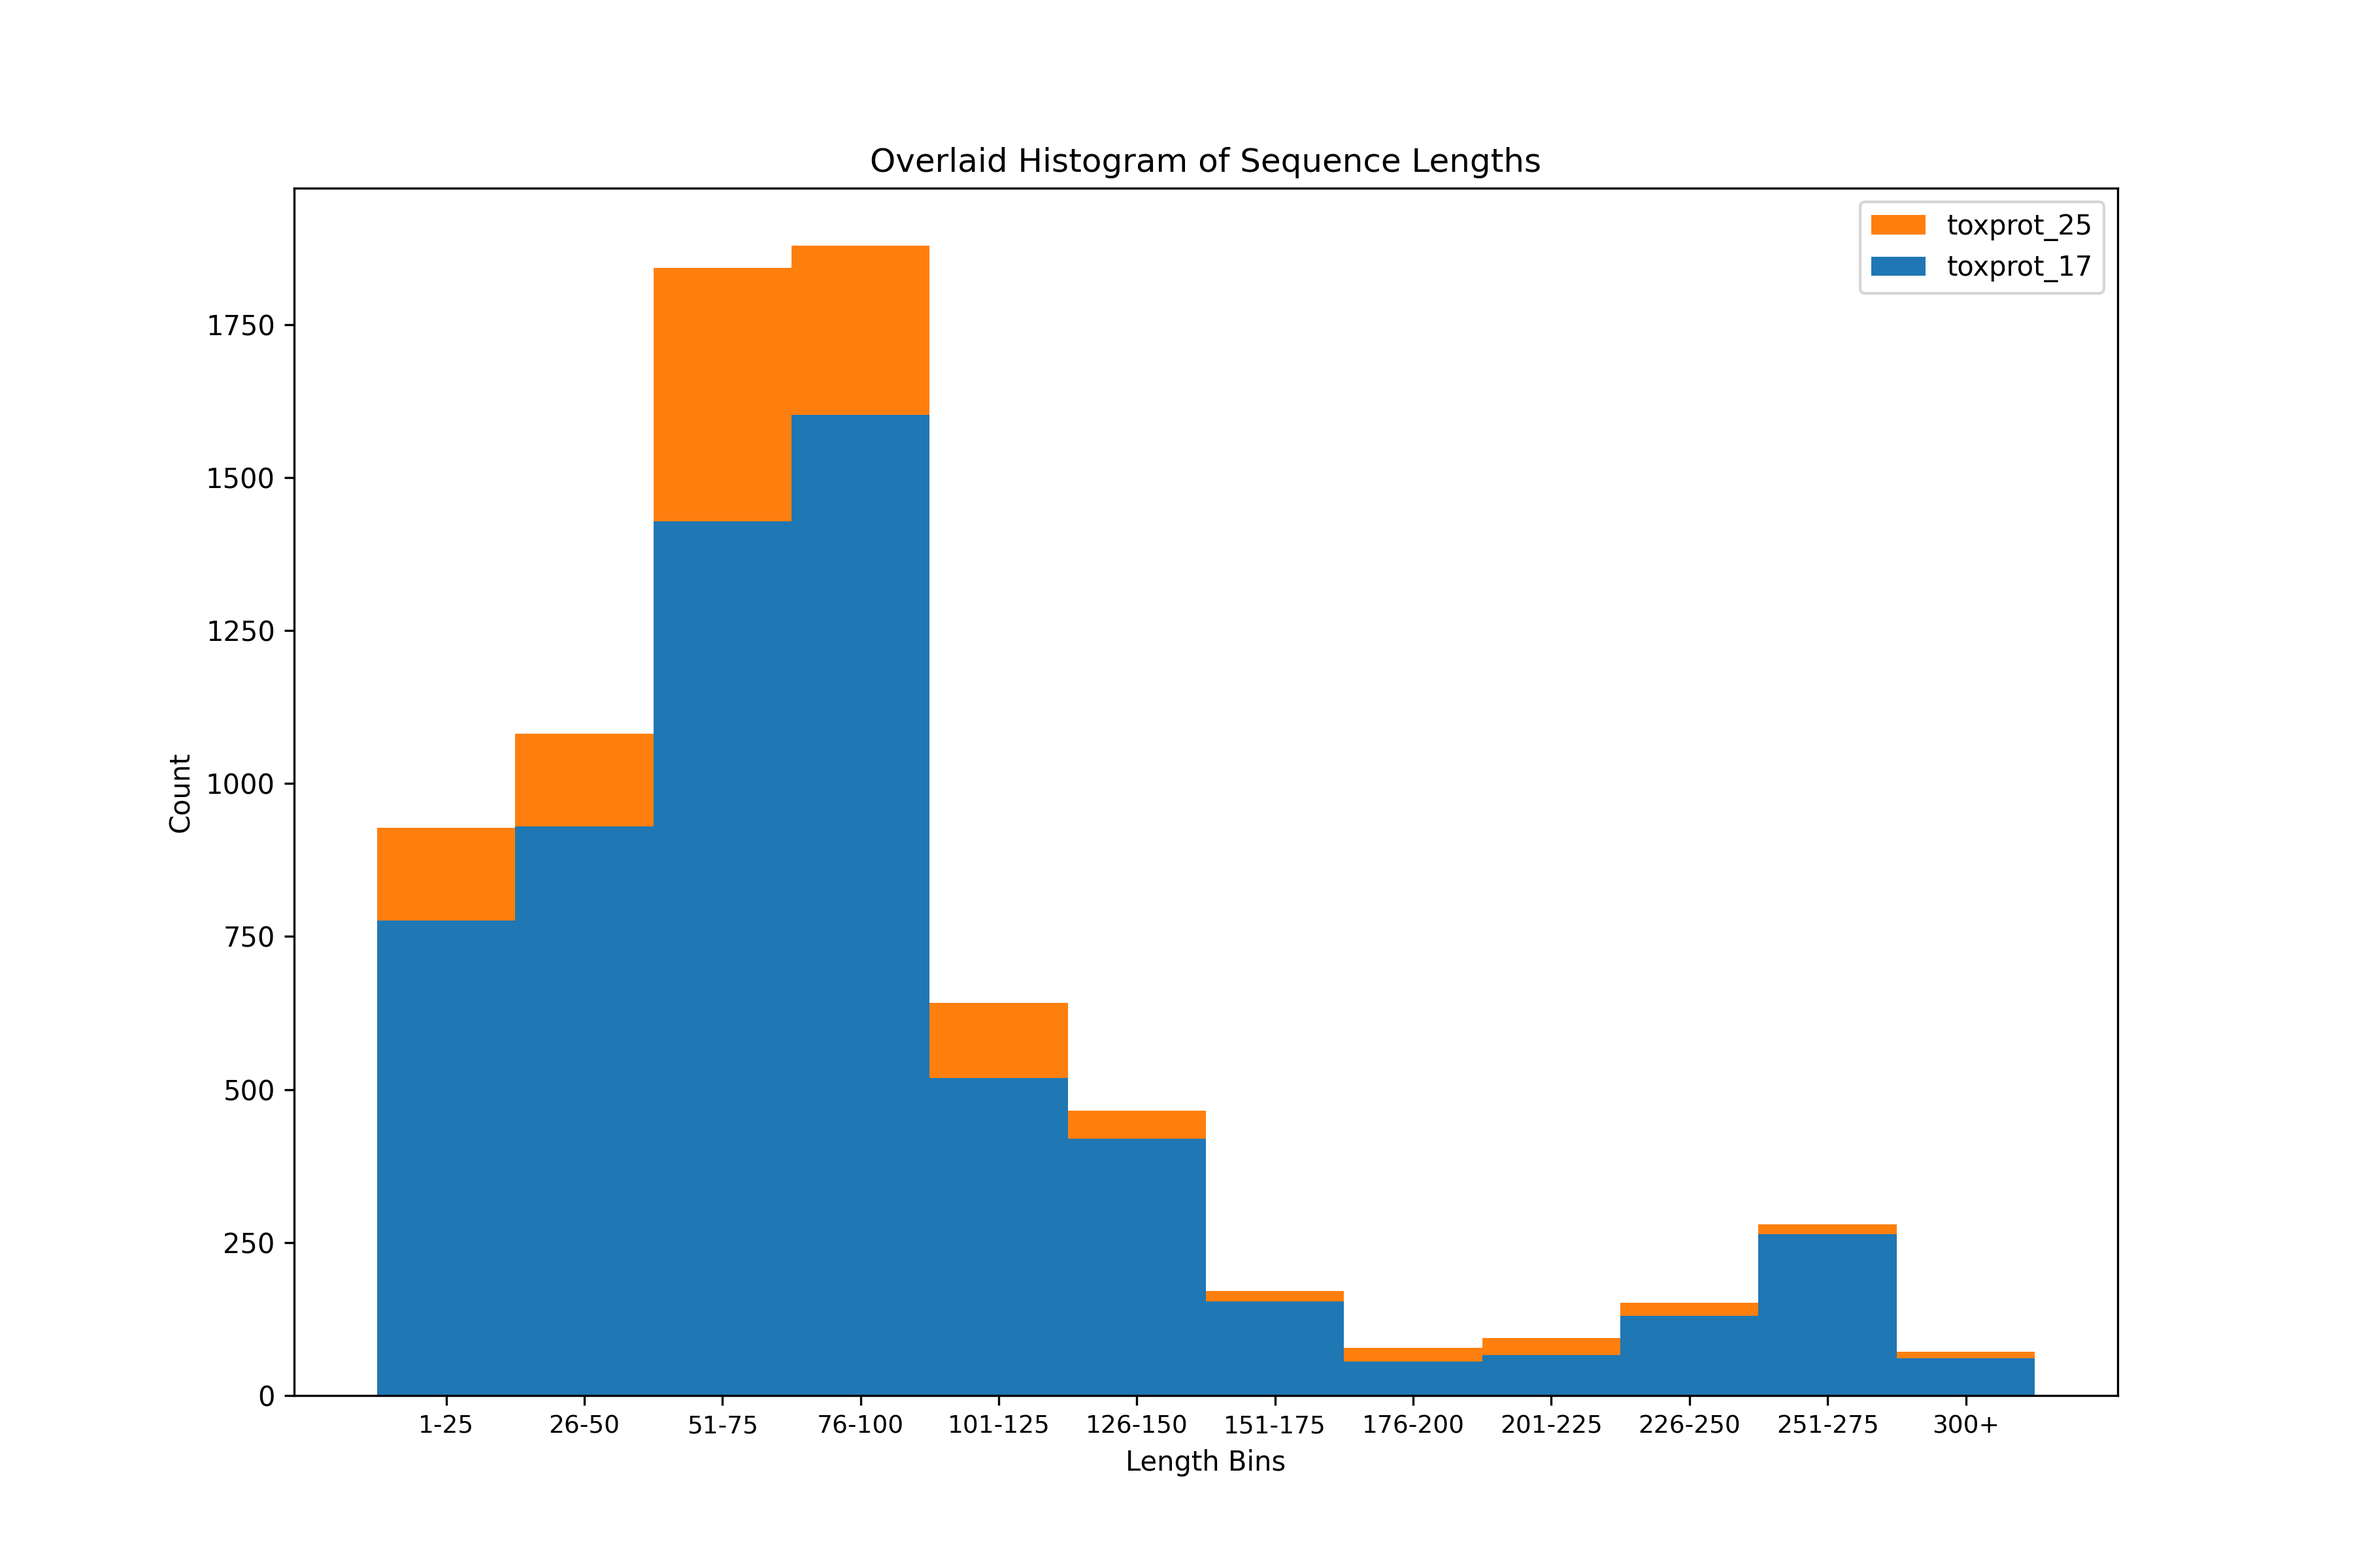
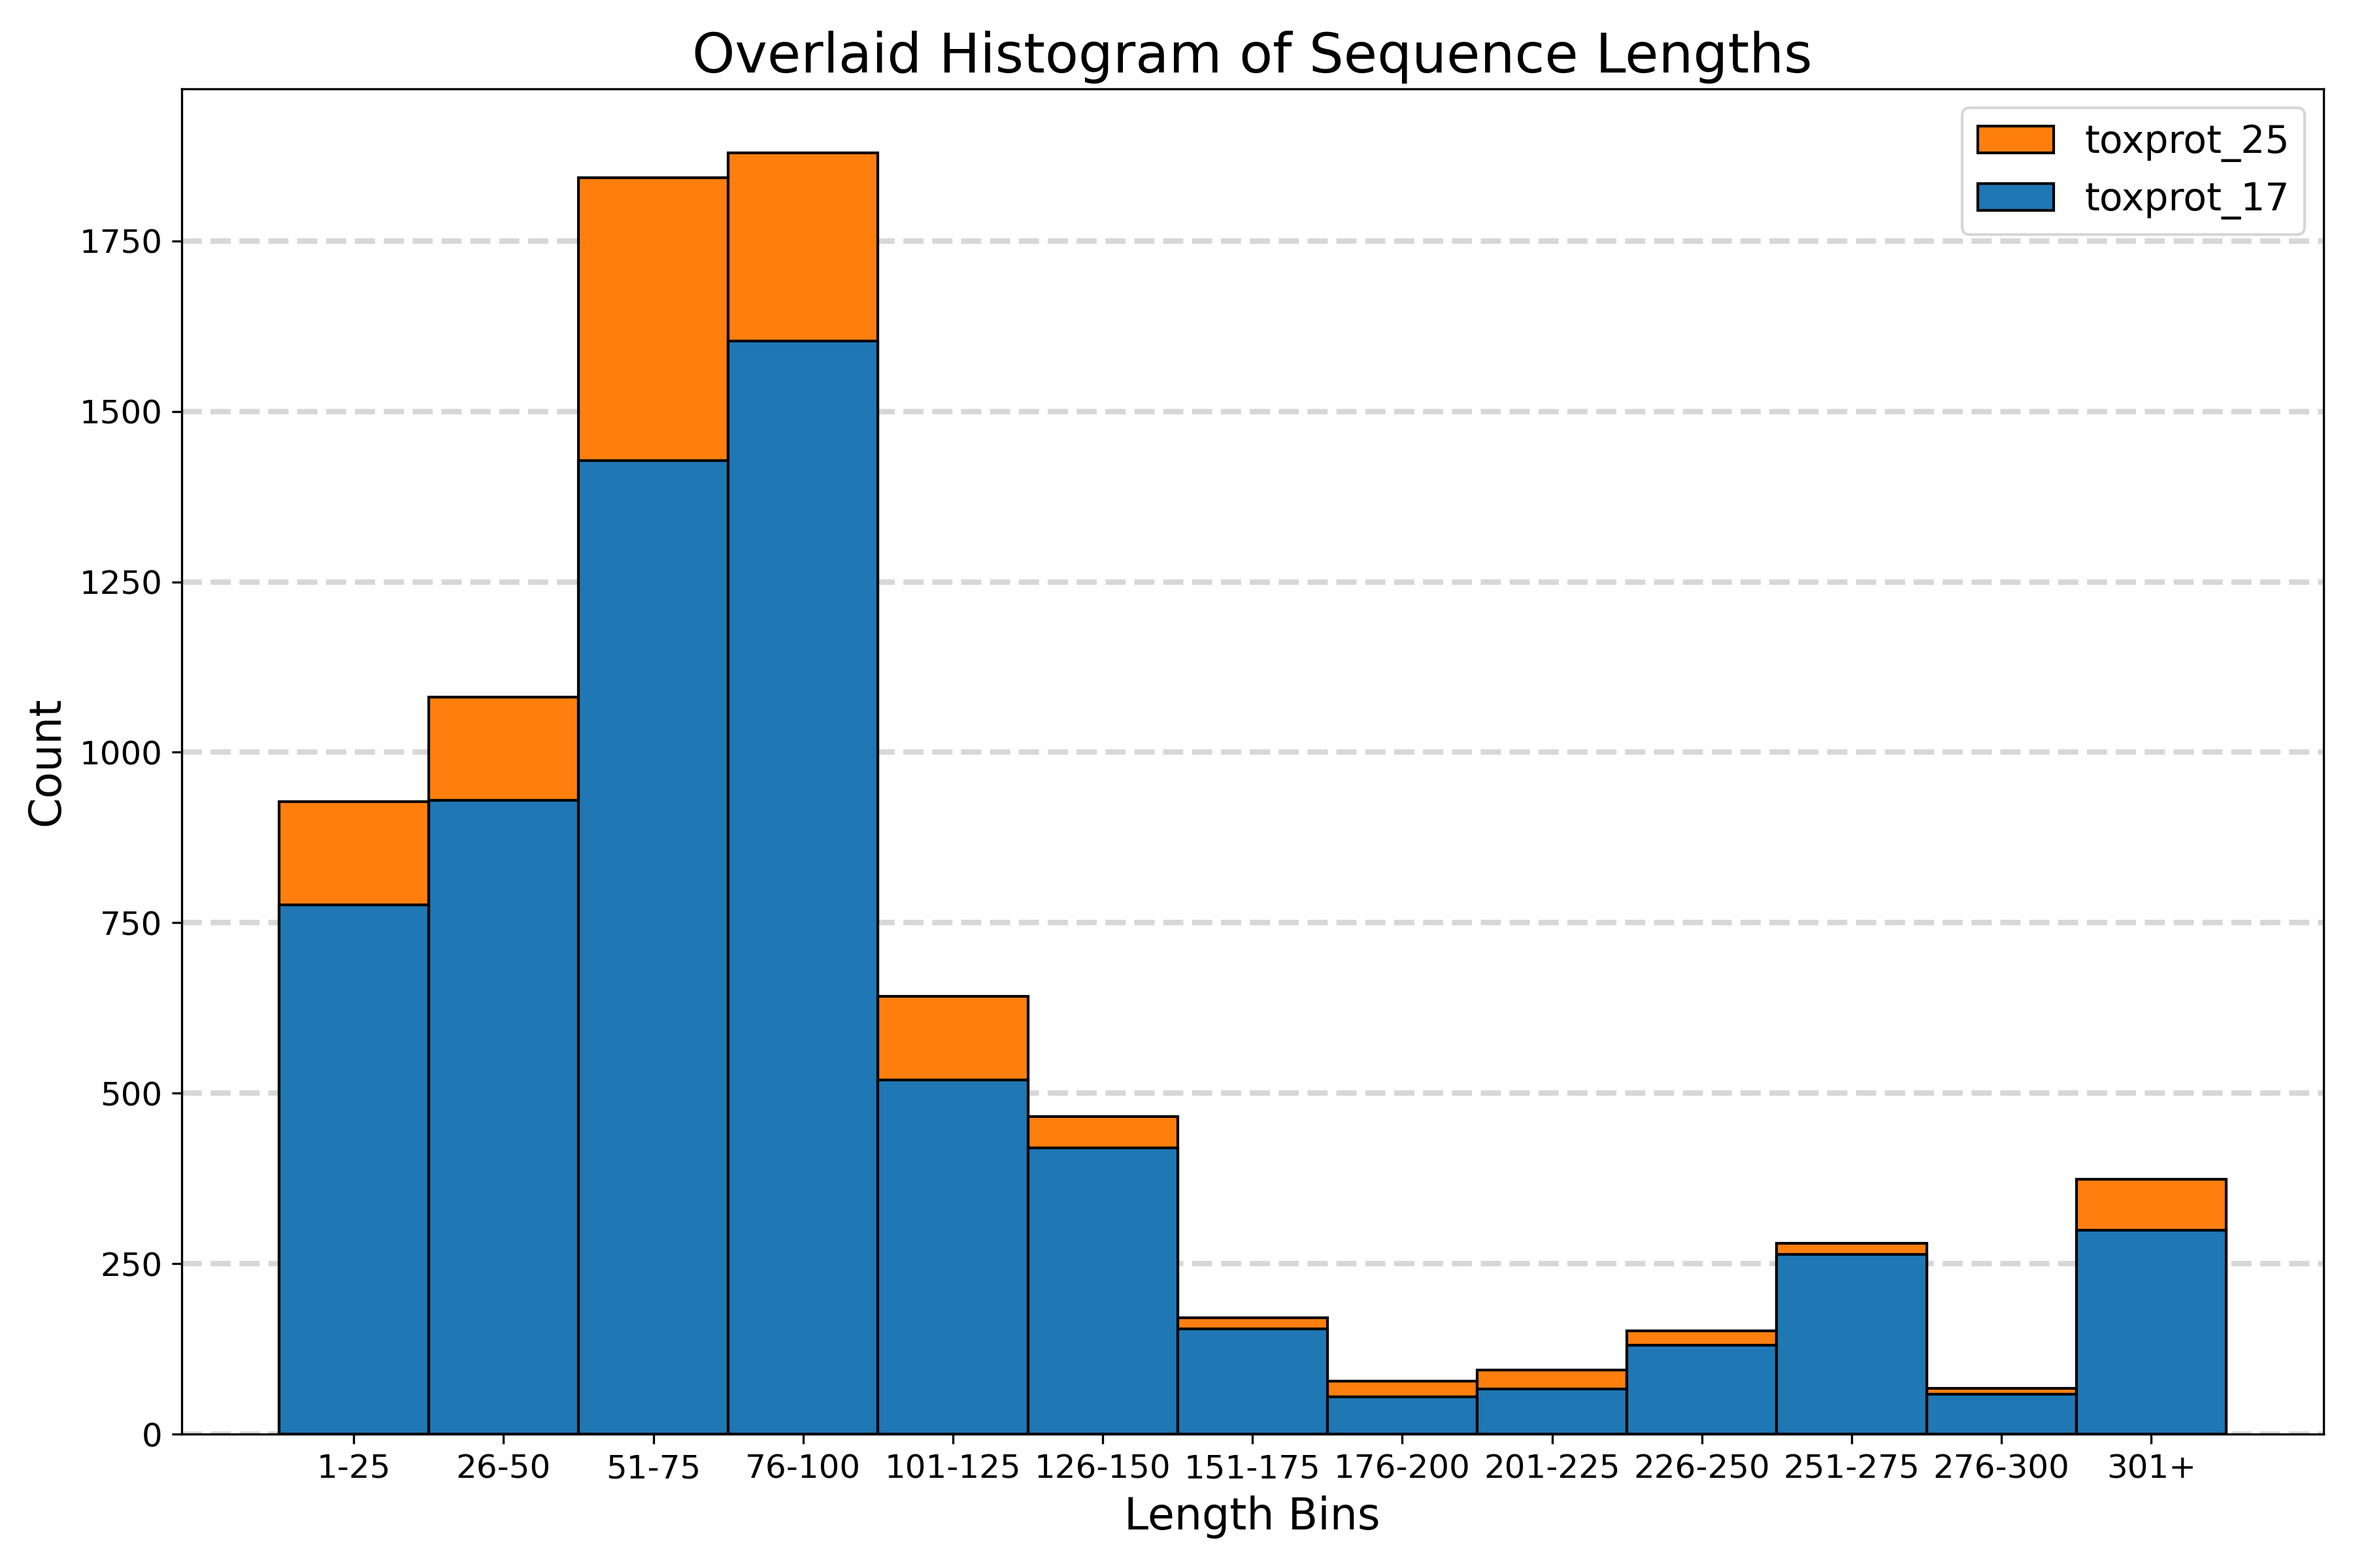
feat(length-dist): add bar for 276-300

diff --git a/docs/todo.md b/docs/todo.md
@@ -49,7 +49,7 @@
 - [-] fix protein family plot [ST]
   - [x] Huwenotoxin - neurotoxin 10
   - [x] sort by abundancy
-  - [ ] sankey diagram would be great (pySankey)
+  - [ ] sankey diagram (optional) (pySankey)
 - [x] double check the protein family count -> give me an explanation of how you did it. [ST]
 - [x] Marine/Terrestrial protein families improve plot [TS]
 - [x] stacked bar (top 5 taxa) -> dots in background [TS]
